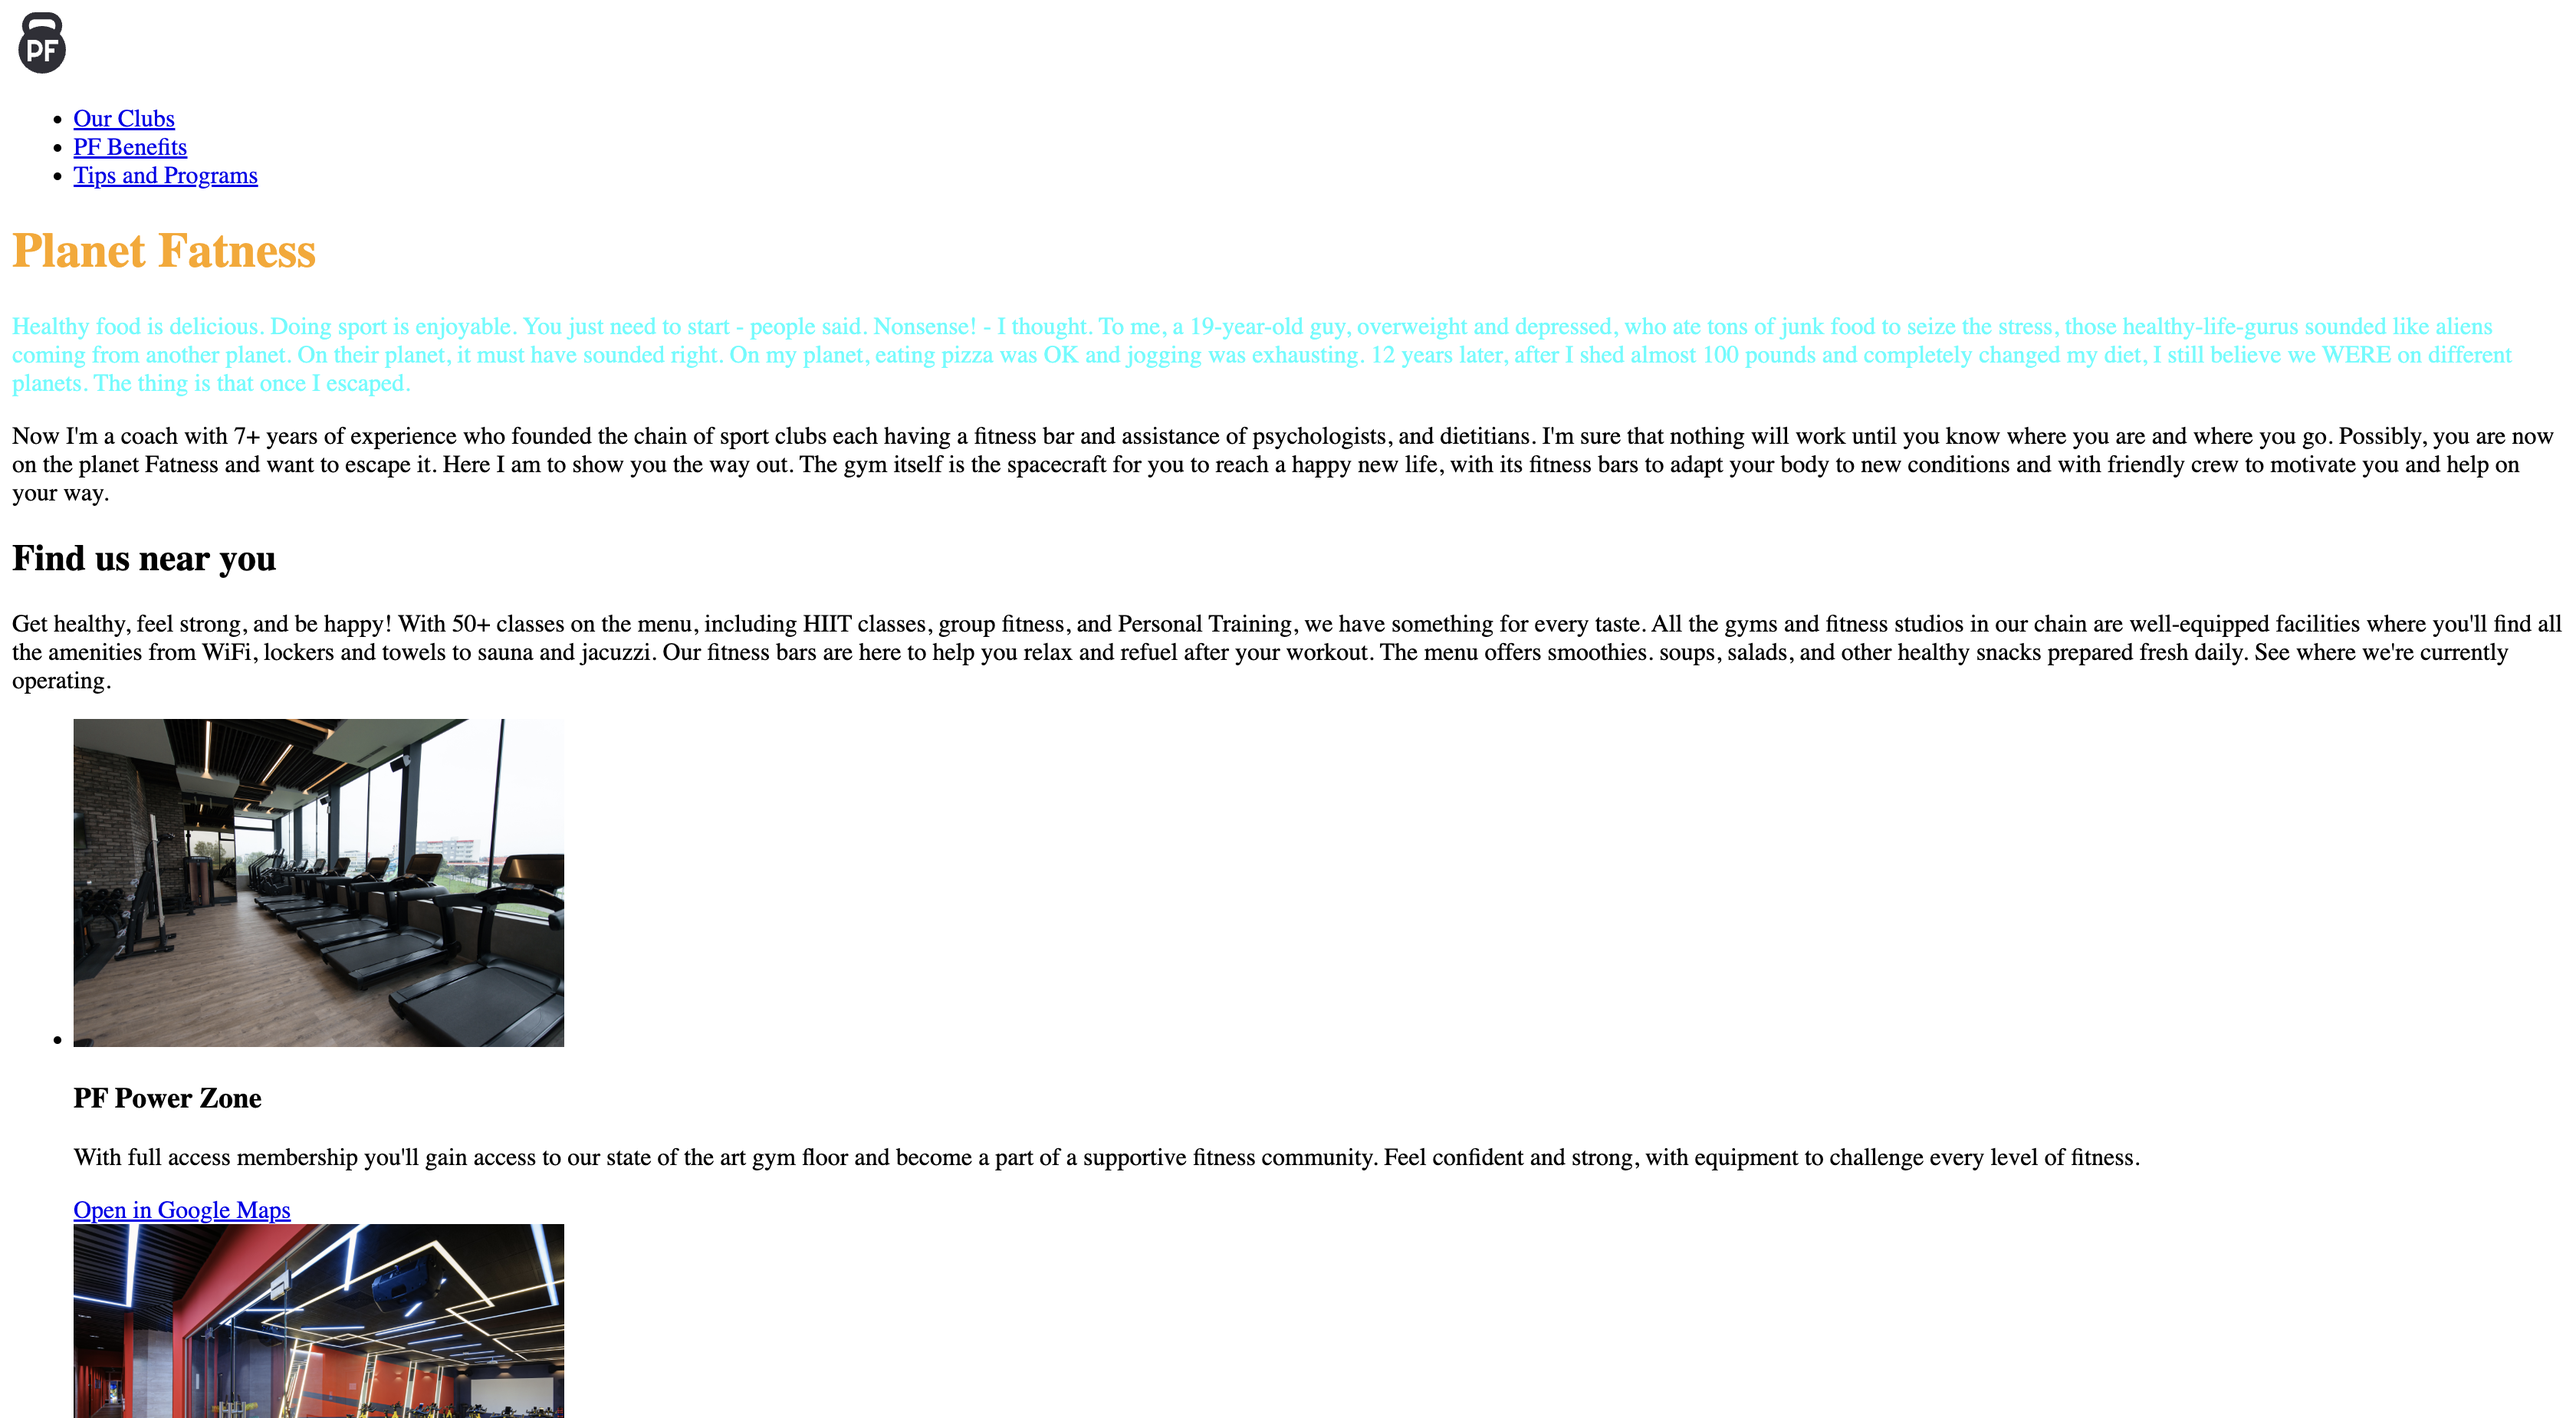
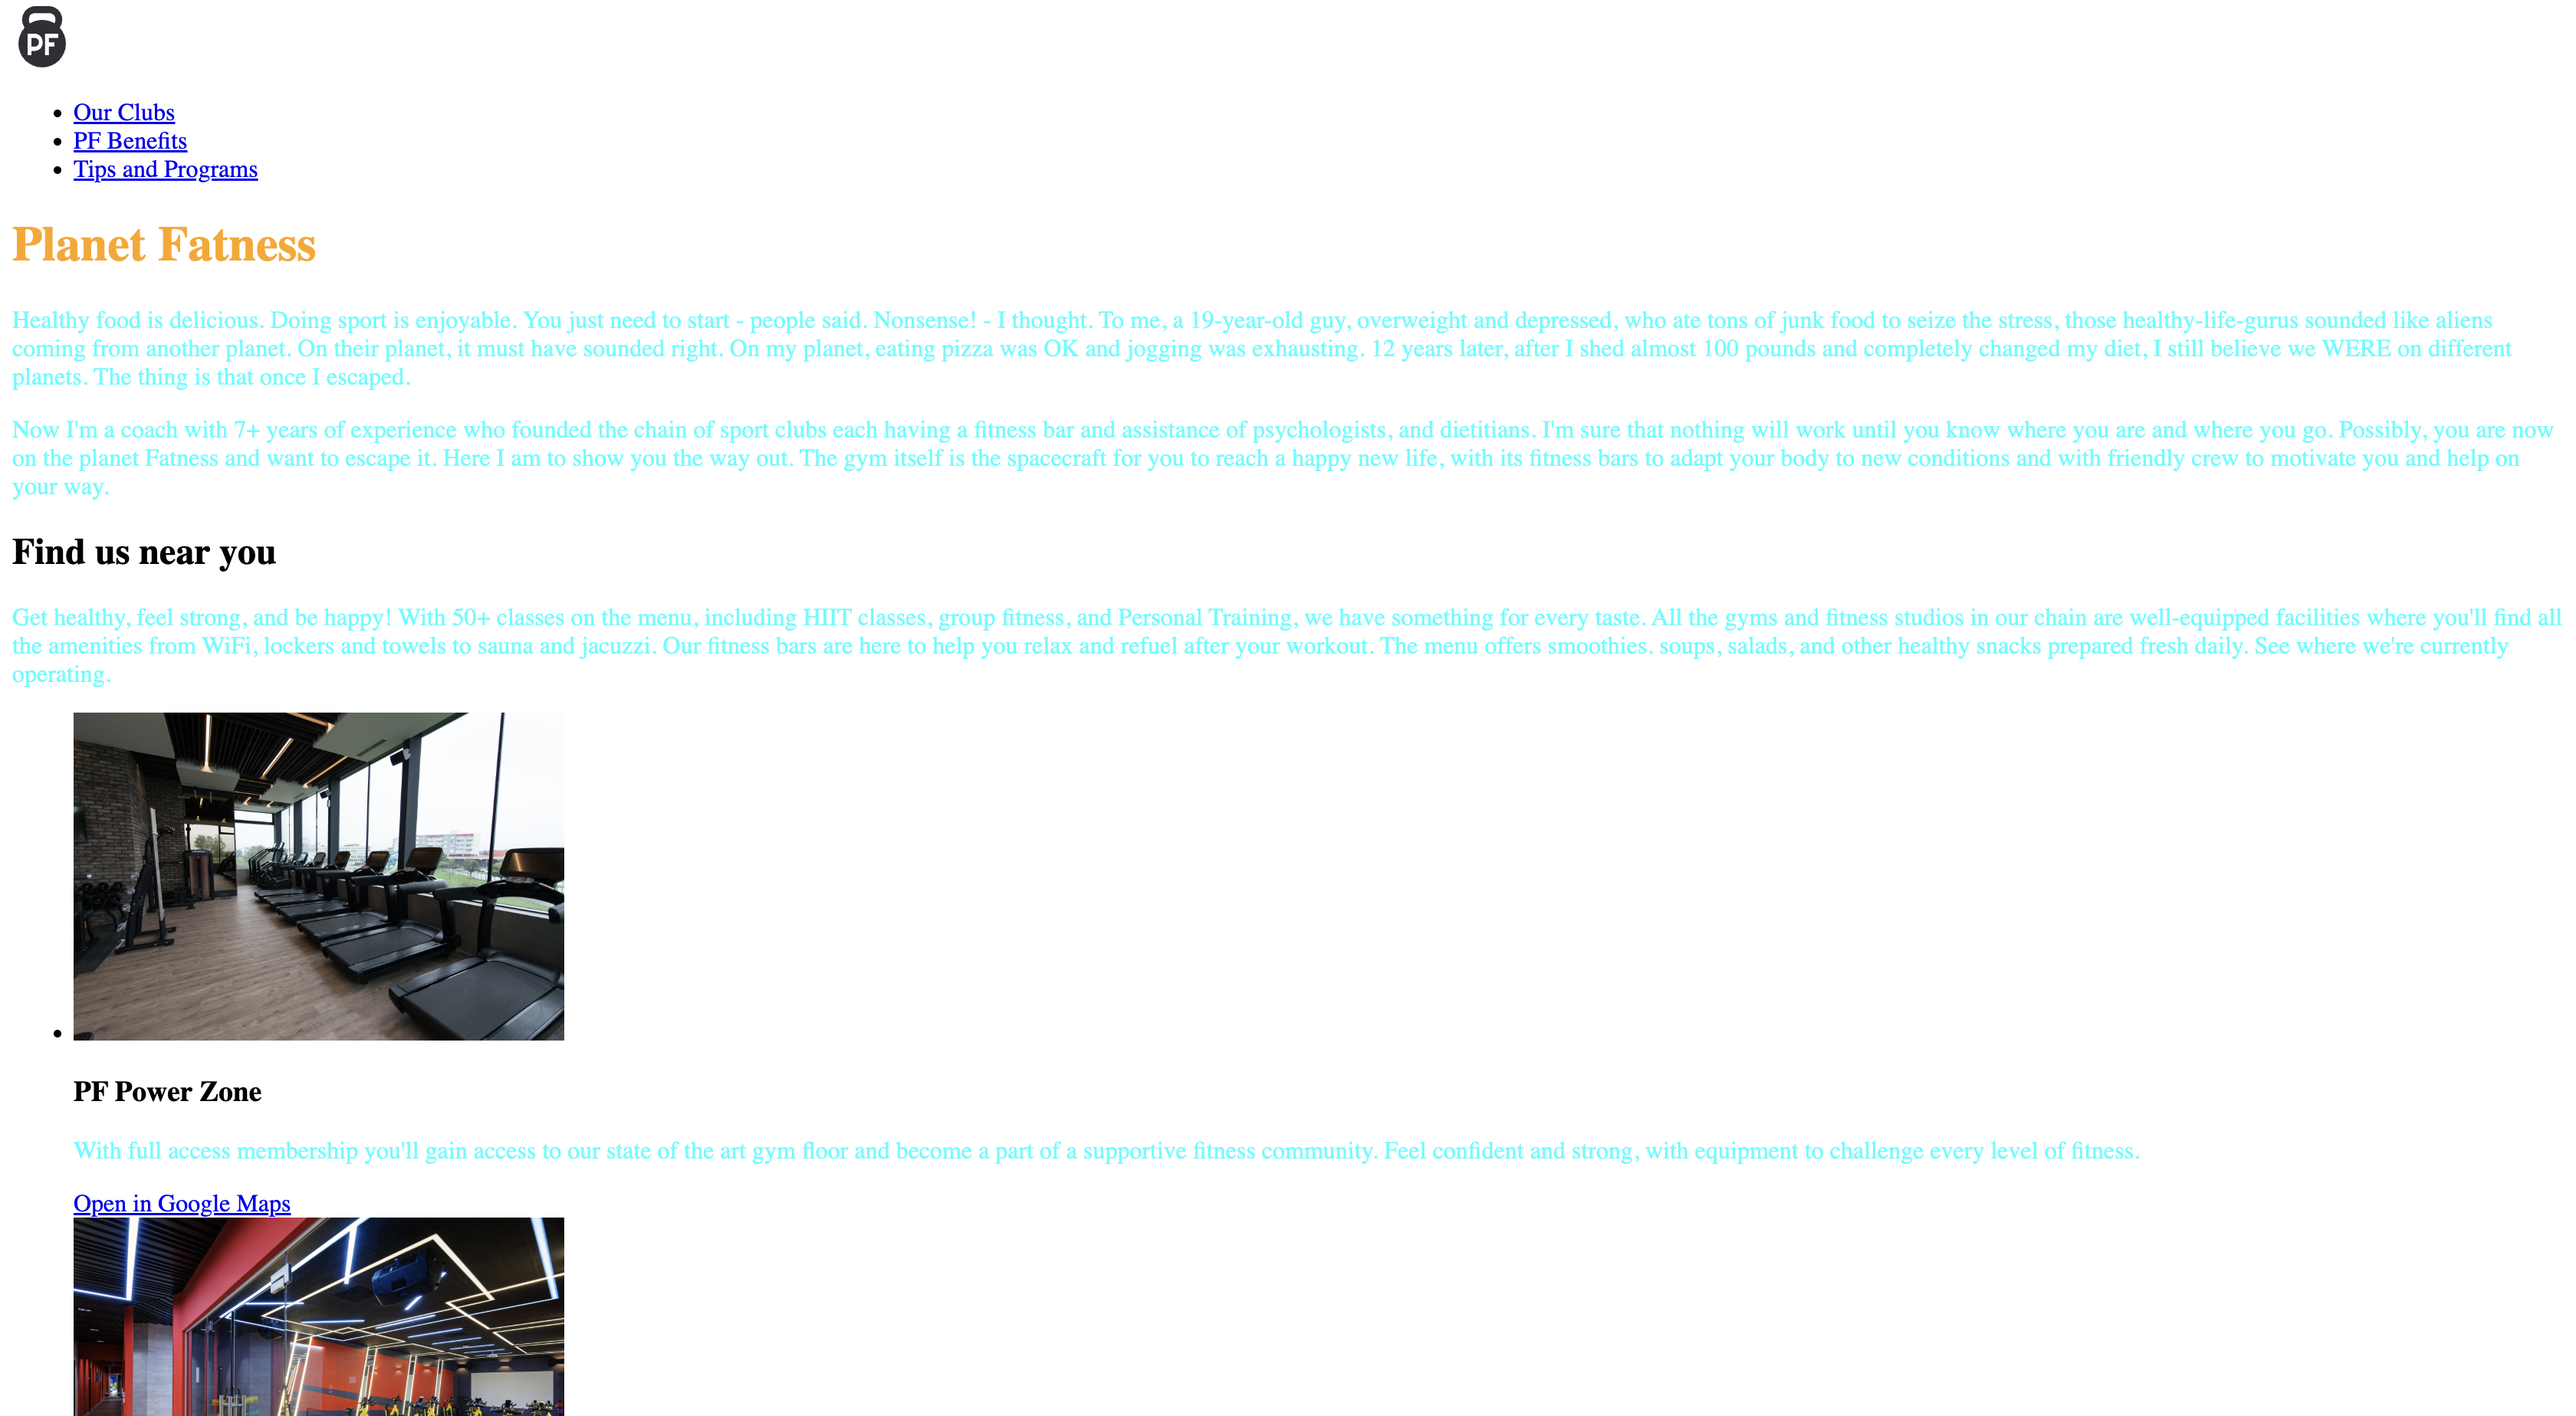
add css table to html

diff --git a/index.html b/index.html
@@ -14,6 +14,14 @@
     <!-- Українською: Опис сторінки для SEO / English: Page description for SEO -->
     <link rel="stylesheet" href="css/main.css">
     <!-- Українською: Підключення CSS стилів / English: CSS stylesheet link -->
+    <style class="styles">
+      h1 {
+        color: orange;
+      }
+      p {
+        color: cyan;
+      }
+    </style>
   </head>
 
   <body class="page">
@@ -61,11 +69,11 @@
     </header>
     <main class="main">
       <!-- Українською: Основний вміст сторінки / English: Main page content -->
-      <h1 class="subtitle" style="color: orange">
+      <h1 class="subtitle">
         <!-- Українською: Заголовок 1 рівня / English: Heading level 1 -->
         Planet Fatness
       </h1>
-      <p class="paragraph" style="color: cyan">
+      <p class="paragraph">
         <!-- Українською: Абзац / English: Paragraph -->
         Healthy food is delicious. Doing sport is enjoyable. You just need to
         start - people said. Nonsense! - I thought. To me, a 19-year-old guy,

diff --git a/README.md b/README.md
@@ -1,7 +1,7 @@
-# longread-2-module2-introduction-to-css-practice-1
+# longread-2-module2-introduction-to-css-practice-2
 
-Page of the gym network with inline css!
-
-You need to follow the Page Page of the gyms.
+Page of the gym network. Add a built -in styles to the document, to which add
+two CSS rules for the title and paragraph.Let the text color be the Orange color
+and the paragraph - Cyan.
 
 ![Опис зображення](./asset/planet-fatness.png)
